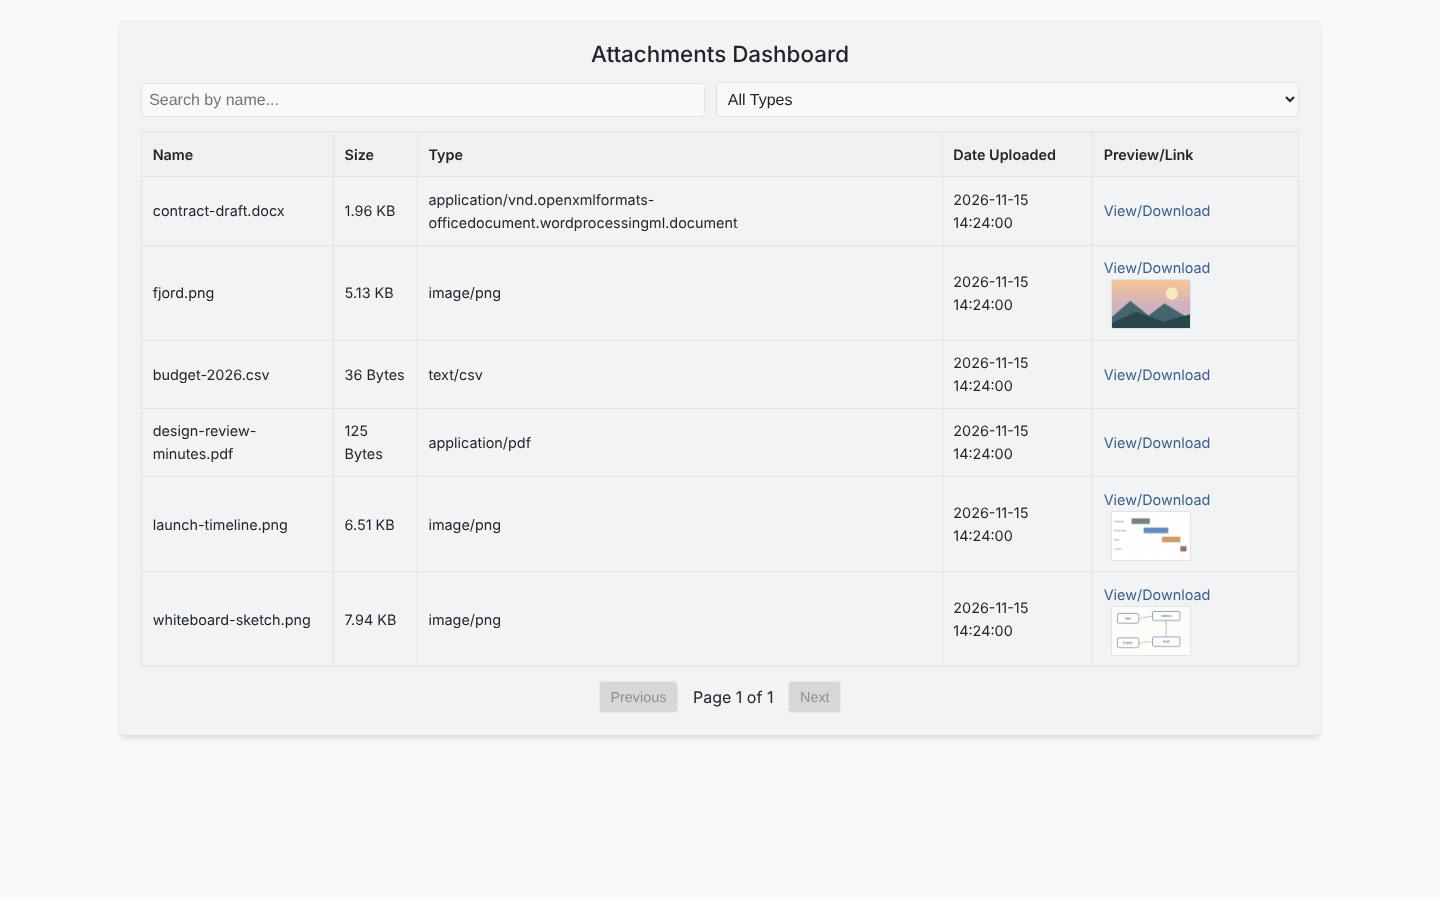
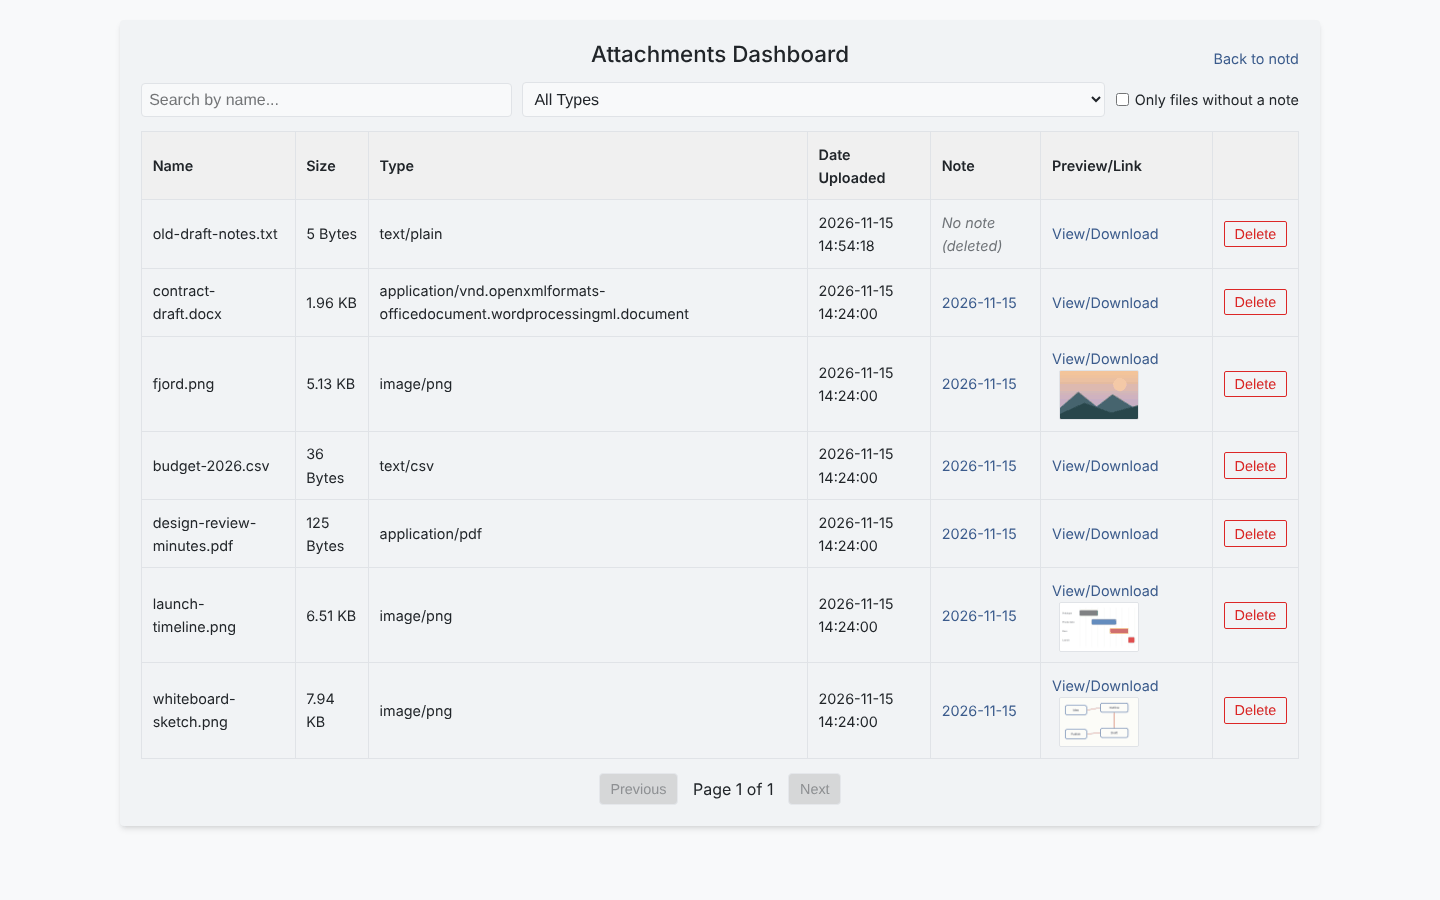
Docs and screenshots: kanban cards, attachment dashboard notes and orphans, files shown in the text
Claude-Session: https://claude.ai/code/session_019GiYMEoXfk6L5uJWpJa2FA

diff --git a/extensions/attachment_dashboard/attachments_dashboard.html b/extensions/attachment_dashboard/attachments_dashboard.html
@@ -28,7 +28,7 @@
             </label>
         </div>
         <div class="orphans-actions" x-show="withoutNote && !isLoading && totalItems > 0">
-            <span x-text="`${totalItems} file${totalItems === 1 ? '' : 's'} no longer belong to a note.`"></span>
+            <span x-text="totalItems === 1 ? '1 file no longer belongs to a note.' : `${totalItems} files no longer belong to a note.`"></span>
             <button type="button" class="danger" @click="deleteAllWithoutNote()">Delete them all</button>
         </div>
 

diff --git a/docs/content/docs/extensions/attachment-dashboard.md b/docs/content/docs/extensions/attachment-dashboard.md
@@ -4,18 +4,26 @@ weight: 30
 description: "Every file attached to a note, in one searchable and sortable list. On by default."
 ---
 
-![The attachment dashboard: a search field, a type filter, and a table of files with name, size, type, date and preview](/images/attachment_dashboard.png)
+![The attachment dashboard: a search field, a type filter, and a table of files with name, size, type, date, the note it belongs to, a preview and a delete button](/images/attachment_dashboard.png)
 
 Files you attach to notes (paste or drop them onto a note, or use **Upload attachment** in the note menu) are shown below the note they belong to. The attachment dashboard lists all of them in one place.
 
 It is on by default; open it with the paperclip icon in the right sidebar.
 
 - **Search** by file name with the field at the top; **filter** by file type with the menu next to it.
-- **Sort** by clicking a column heading (name, size, type, date uploaded); click again to reverse.
+- **Sort** by clicking a column heading (name, size, type, date uploaded, note); click again to reverse.
+- **Go to the note** a file belongs to by clicking its page in the **Note** column.
 - **Open** a file with **View/Download**. Images also show a small preview.
+- **Delete** a file with its **Delete** button (you are asked first). Under its note, the trash icon does the same.
 
 Files are listed newest first, a page at a time; use **Previous** and **Next** at the bottom.
 
-To delete a file, use the trash icon next to it under its note. Deleting a page deletes the files of its notes as well. Deleting a single note keeps its files: they stay in the dashboard, so nothing you uploaded disappears by accident.
+## Files without a note
+
+Deleting a page deletes the files of its notes as well. Deleting a single note keeps its files, so nothing you uploaded disappears by accident: the dashboard shows them as *No note (deleted)*.
+
+To clean up, tick **Only files without a note**. The dashboard then lists just those files and offers **Delete them all**:
+
+![The dashboard with "Only files without a note" ticked: one file, and a "Delete them all" button](/images/attachment_dashboard_orphans.png)
 
 Files are stored in `uploads/` (or the folder set with `UPLOADS_DIR`), sorted into year and month folders. Which file types are accepted, and the 10 MB limit, are described under [Attachments]({{< relref "../api-reference/attachments.md" >}}).

diff --git a/docs/content/docs/frontend-guide/core-features.md b/docs/content/docs/frontend-guide/core-features.md
@@ -81,7 +81,9 @@ Right-click the bullet of the note you want to embed and choose **Copy embed cod
 
 Drag a file onto a note, paste an image into it, or right-click its bullet and choose **Upload attachment**. A pasted image is also inserted into the text, so it shows inline. The limit is 10 MB per file.
 
-Allowed types: images (jpg, png, gif, webp), pdf, text (txt, md, csv, json), office documents (docx, xlsx, pptx, odt, ods, odp), zip, audio (mp3, m4a, ogg, wav) and video (mp4, webm). Other types, such as HTML or SVG, are refused because a browser could run code in them. The Attachment Dashboard extension lists all files.
+A note's files are listed below its text, except the ones the text already shows: an image in the text (`![photo](uploads/...)`) or a link to a file is not listed a second time. Remove it from the text and it is listed again.
+
+Allowed types: images (jpg, png, gif, webp), pdf, text (txt, md, csv, json), office documents (docx, xlsx, pptx, odt, ods, odp), zip, audio (mp3, m4a, ogg, wav) and video (mp4, webm). Other types, such as HTML or SVG, are refused because a browser could run code in them. The [attachment dashboard]({{< relref "../extensions/attachment-dashboard.md" >}}) lists all files, with the note each belongs to.
 
 ## Templates
 

diff --git a/docs/content/docs/extensions/kanban-board.md b/docs/content/docs/extensions/kanban-board.md
@@ -8,7 +8,9 @@ description: "Every task in your notes as a card, in one column per state. On by
 
 The kanban board shows every [task]({{< relref "../frontend-guide/journal-tasks.md" >}}) in your notes as a card, in one column per task state. Dragging a card to another column rewrites the keyword at the start of the note (for example `TODO` to `DOING`), exactly as if you had edited the note.
 
-Cards come from notes, so there is nothing to keep in sync: write a task anywhere and it is on the board. A card shows the note's text as written, properties included.
+Cards come from notes, so there is nothing to keep in sync: write a task anywhere and it is on the board.
+
+A card shows the first line of the note as plain text, without the task keyword or any `{property}` syntax, and `[[links]]` as the page names. The note's properties are shown as small labels below it (internal ones, with three colons, are left out), and the page the note is on links to the note itself. A card whose note has more lines ends in "…".
 
 It is on by default; open it with the board icon in the right sidebar. **Back to Main App** returns to your notes.
 

diff --git a/docs/content/docs/overview/changelog.md b/docs/content/docs/overview/changelog.md
@@ -28,6 +28,12 @@ Extensions
 - The Pomodoro timer reads `pageTemplate`, `noteTemplate` and `cycle` from its `config.json` (they were ignored, so sessions went to the journal page and there were no long breaks), and its work session is 25 minutes again (the shipped setting was 2).
 - The kanban board's **Back to Main App** works when notd is served from a sub-folder.
 
+- Kanban cards show the note's text without `{property}` syntax, its properties as labels, and a link to the note.
+- The attachment dashboard shows the note each file belongs to, lists files whose note was deleted (**Only files without a note**), and deletes files.
+
+Attachments
+- A file the note's text already shows (an image placed in the text, a link to a file) is no longer listed again below the note. Pasted images were shown twice.
+
 Documentation
 - A page for each extension, with screenshots; how to turn extensions on, and which ones appear in the note menu.
 - Section pages (Development, Overview and others) show their text, which the theme used to hide.

diff --git a/docs/content/docs/api-reference/attachments.md b/docs/content/docs/api-reference/attachments.md
@@ -56,6 +56,7 @@ Uploads are checked against a list of allowed types by extension: jpg, jpeg, png
 ### `GET /api/v1/attachments.php`
 *   **Description**: Retrieves a list of attachments, either for a specific note or for all notes with pagination and filtering.
 *   **Example (By Note ID)**: `GET /api/v1/attachments.php?note_id=42`
+*   **All attachments**: `GET /api/v1/attachments.php?page=1&per_page=10`. Parameters: `sort_by` (`name`, `size`, `type`, `created_at`, `page_name`), `sort_order` (`asc`, `desc`), `filter_by_name`, `filter_by_type`, and `without_note=1` for files whose note was deleted. The answer is `{"data": [...], "pagination": {...}}`; each file also has `note_id`, `page_id` and `page_name` (all `null` when its note is gone).
 *   **Response (200 OK)**:
     ```json
     {
